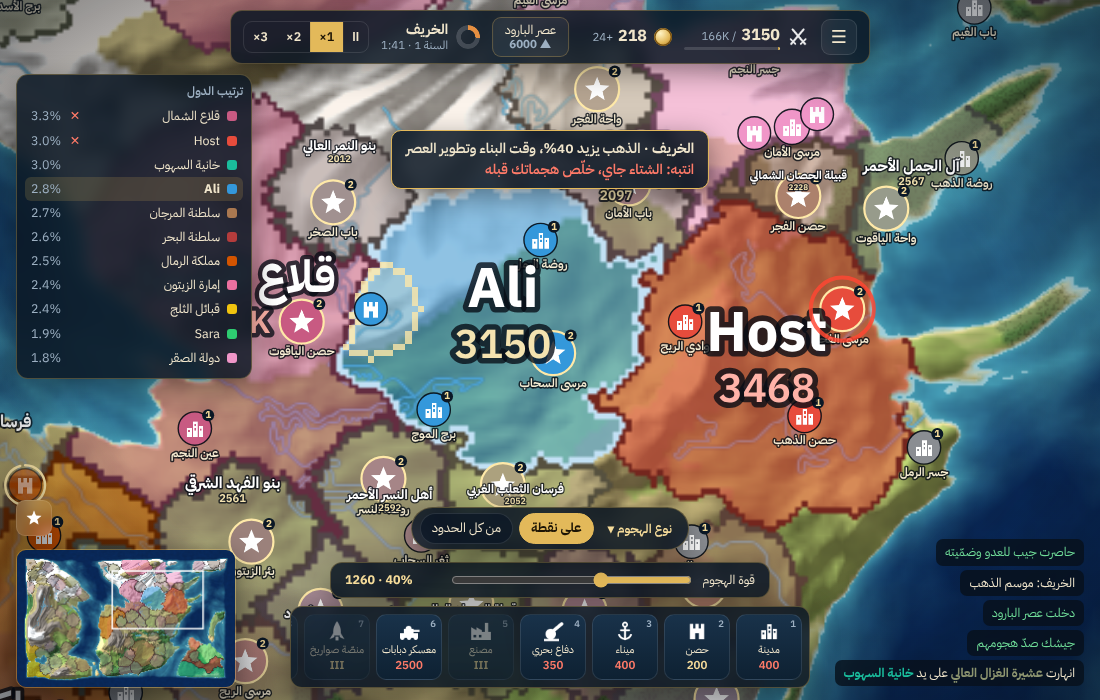
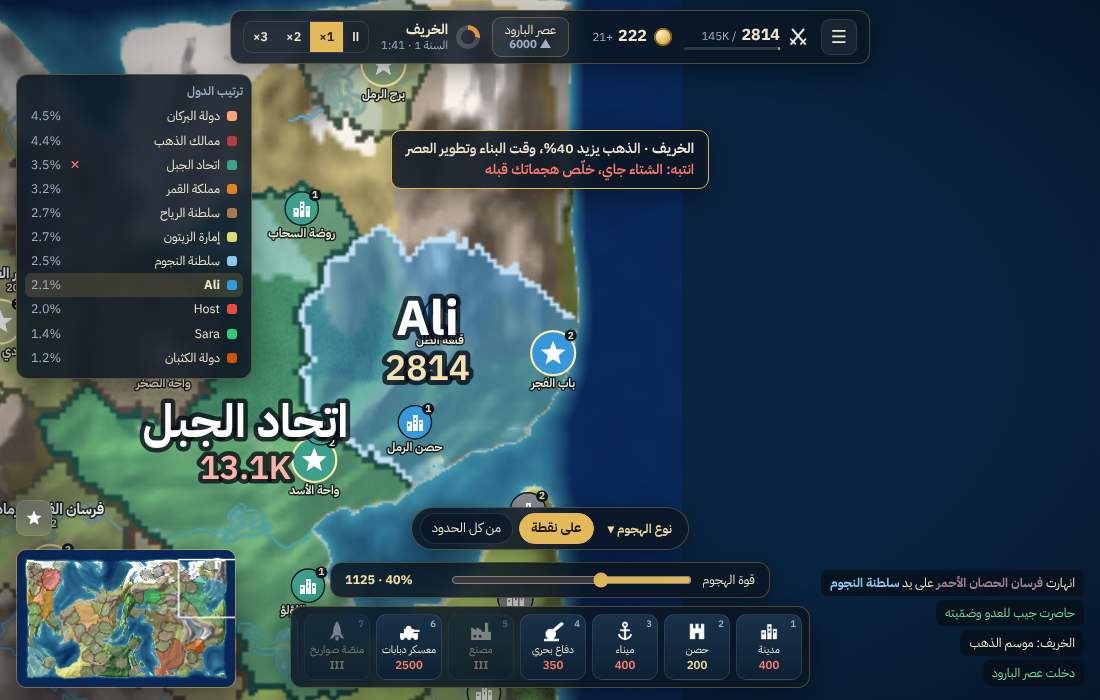
Tanks leave captured ground immediately
Claude-Session: https://claude.ai/code/session_01DE77Q6PVtjTWn3qCBTcsws

diff --git a/dist/sijal-mobile.html b/dist/sijal-mobile.html
@@ -447,7 +447,7 @@ h3{font-size:13px;color:var(--dim);font-weight:600;margin-bottom:6px}
 </div>
 <script>
 window.SIJAL_MODE='mobile';(function(){"use strict";
-const BUILD_ID='fb52ffa115';
+const BUILD_ID='2ee05ec791';
 // ── SIJAL · core: constants, utilities, shared data ──
 const TPS=10,SEASON_LEN=450;
 // terrain ids: 0 deep, 1 shallow, 2 plains, 3 forest, 4 desert, 5 hills, 6 mountain, 7 snow
@@ -1240,12 +1240,13 @@ function tickTanks(g){
     // nearest offensive of this realm
     let k=null,bd=1e18;if(F)for(const q of F){const fx=q.fx!=null?q.fx:q.ox,fy=q.fx!=null?q.fy:q.oy,d=(fx-T.x)**2+(fy-T.y)**2;if(d<bd){bd=d;k=q;}}
     if(k){const key=k.id;slot[key]=(slot[key]||0)+1;T.slot=slot[key]-1;}
-    if(now>=T.re||(k?T.k!==k.id:T.k)){
+    const lost=own[ti]!==T.a;
+    if(lost||now>=T.re||(k?T.k!==k.id:T.k)){
       T.re=now+(k?20:60+((g.rng()*40)|0));let tgt=-1;
       if(k){if(!k._fl||now-k._flT>=20){k._fl=frontLine(g,k);k._flT=now;}const L=k._fl;
         if(L.length){const n=live.filter(o=>o.a===T.a).length;tgt=L[Math.min(L.length-1,Math.floor((T.slot+.5)/Math.max(1,n)*L.length))];}}
       for(const R of k?[6,20]:[10,25,50]){if(tgt>=0)break;tgt=borderNear(g,T.a,Math.floor(T.x),Math.floor(T.y),R);}
-      T.k=k?k.id:0;let start=ti;if(own[start]!==T.a){const b=borderNear(g,T.a,Math.floor(T.x),Math.floor(T.y),4);if(b>=0){start=b;T.x=b%W+.5;T.y=((b/W)|0)+.5;}}
+      T.k=k?k.id:0;let start=ti;if(own[start]!==T.a){let b=-1;for(const R of[2,5,10,20]){if(b>=0)break;b=borderNear(g,T.a,Math.floor(T.x),Math.floor(T.y),R);}if(b<0){b=T.c.i;}start=b;T.x=b%W+.5;T.y=((b/W)|0)+.5;}
       T.path=tgt>=0&&own[start]===T.a?ownPath(g,T.a,start,tgt,g.N):null;T.pi=0;}
     // drive along the path; never onto land that is not ours
     const sp=T.k?.55:.14;let left=sp;

diff --git a/dist/sijal-pc.html b/dist/sijal-pc.html
@@ -447,7 +447,7 @@ h3{font-size:13px;color:var(--dim);font-weight:600;margin-bottom:6px}
 </div>
 <script>
 window.SIJAL_MODE='pc';(function(){"use strict";
-const BUILD_ID='fb52ffa115';
+const BUILD_ID='2ee05ec791';
 // ── SIJAL · core: constants, utilities, shared data ──
 const TPS=10,SEASON_LEN=450;
 // terrain ids: 0 deep, 1 shallow, 2 plains, 3 forest, 4 desert, 5 hills, 6 mountain, 7 snow
@@ -1240,12 +1240,13 @@ function tickTanks(g){
     // nearest offensive of this realm
     let k=null,bd=1e18;if(F)for(const q of F){const fx=q.fx!=null?q.fx:q.ox,fy=q.fx!=null?q.fy:q.oy,d=(fx-T.x)**2+(fy-T.y)**2;if(d<bd){bd=d;k=q;}}
     if(k){const key=k.id;slot[key]=(slot[key]||0)+1;T.slot=slot[key]-1;}
-    if(now>=T.re||(k?T.k!==k.id:T.k)){
+    const lost=own[ti]!==T.a;
+    if(lost||now>=T.re||(k?T.k!==k.id:T.k)){
       T.re=now+(k?20:60+((g.rng()*40)|0));let tgt=-1;
       if(k){if(!k._fl||now-k._flT>=20){k._fl=frontLine(g,k);k._flT=now;}const L=k._fl;
         if(L.length){const n=live.filter(o=>o.a===T.a).length;tgt=L[Math.min(L.length-1,Math.floor((T.slot+.5)/Math.max(1,n)*L.length))];}}
       for(const R of k?[6,20]:[10,25,50]){if(tgt>=0)break;tgt=borderNear(g,T.a,Math.floor(T.x),Math.floor(T.y),R);}
-      T.k=k?k.id:0;let start=ti;if(own[start]!==T.a){const b=borderNear(g,T.a,Math.floor(T.x),Math.floor(T.y),4);if(b>=0){start=b;T.x=b%W+.5;T.y=((b/W)|0)+.5;}}
+      T.k=k?k.id:0;let start=ti;if(own[start]!==T.a){let b=-1;for(const R of[2,5,10,20]){if(b>=0)break;b=borderNear(g,T.a,Math.floor(T.x),Math.floor(T.y),R);}if(b<0){b=T.c.i;}start=b;T.x=b%W+.5;T.y=((b/W)|0)+.5;}
       T.path=tgt>=0&&own[start]===T.a?ownPath(g,T.a,start,tgt,g.N):null;T.pi=0;}
     // drive along the path; never onto land that is not ours
     const sp=T.k?.55:.14;let left=sp;

diff --git a/dist/sijal-artifact.html b/dist/sijal-artifact.html
@@ -437,7 +437,7 @@ h3{font-size:13px;color:var(--dim);font-weight:600;margin-bottom:6px}
 </div>
 <script>
 (function(){"use strict";
-const BUILD_ID='fb52ffa115';
+const BUILD_ID='2ee05ec791';
 // ── SIJAL · core: constants, utilities, shared data ──
 const TPS=10,SEASON_LEN=450;
 // terrain ids: 0 deep, 1 shallow, 2 plains, 3 forest, 4 desert, 5 hills, 6 mountain, 7 snow
@@ -1230,12 +1230,13 @@ function tickTanks(g){
     // nearest offensive of this realm
     let k=null,bd=1e18;if(F)for(const q of F){const fx=q.fx!=null?q.fx:q.ox,fy=q.fx!=null?q.fy:q.oy,d=(fx-T.x)**2+(fy-T.y)**2;if(d<bd){bd=d;k=q;}}
     if(k){const key=k.id;slot[key]=(slot[key]||0)+1;T.slot=slot[key]-1;}
-    if(now>=T.re||(k?T.k!==k.id:T.k)){
+    const lost=own[ti]!==T.a;
+    if(lost||now>=T.re||(k?T.k!==k.id:T.k)){
       T.re=now+(k?20:60+((g.rng()*40)|0));let tgt=-1;
       if(k){if(!k._fl||now-k._flT>=20){k._fl=frontLine(g,k);k._flT=now;}const L=k._fl;
         if(L.length){const n=live.filter(o=>o.a===T.a).length;tgt=L[Math.min(L.length-1,Math.floor((T.slot+.5)/Math.max(1,n)*L.length))];}}
       for(const R of k?[6,20]:[10,25,50]){if(tgt>=0)break;tgt=borderNear(g,T.a,Math.floor(T.x),Math.floor(T.y),R);}
-      T.k=k?k.id:0;let start=ti;if(own[start]!==T.a){const b=borderNear(g,T.a,Math.floor(T.x),Math.floor(T.y),4);if(b>=0){start=b;T.x=b%W+.5;T.y=((b/W)|0)+.5;}}
+      T.k=k?k.id:0;let start=ti;if(own[start]!==T.a){let b=-1;for(const R of[2,5,10,20]){if(b>=0)break;b=borderNear(g,T.a,Math.floor(T.x),Math.floor(T.y),R);}if(b<0){b=T.c.i;}start=b;T.x=b%W+.5;T.y=((b/W)|0)+.5;}
       T.path=tgt>=0&&own[start]===T.a?ownPath(g,T.a,start,tgt,g.N):null;T.pi=0;}
     // drive along the path; never onto land that is not ours
     const sp=T.k?.55:.14;let left=sp;

diff --git a/dist/sijal.html b/dist/sijal.html
@@ -447,7 +447,7 @@ h3{font-size:13px;color:var(--dim);font-weight:600;margin-bottom:6px}
 </div>
 <script>
 (function(){"use strict";
-const BUILD_ID='fb52ffa115';
+const BUILD_ID='2ee05ec791';
 // ── SIJAL · core: constants, utilities, shared data ──
 const TPS=10,SEASON_LEN=450;
 // terrain ids: 0 deep, 1 shallow, 2 plains, 3 forest, 4 desert, 5 hills, 6 mountain, 7 snow
@@ -1240,12 +1240,13 @@ function tickTanks(g){
     // nearest offensive of this realm
     let k=null,bd=1e18;if(F)for(const q of F){const fx=q.fx!=null?q.fx:q.ox,fy=q.fx!=null?q.fy:q.oy,d=(fx-T.x)**2+(fy-T.y)**2;if(d<bd){bd=d;k=q;}}
     if(k){const key=k.id;slot[key]=(slot[key]||0)+1;T.slot=slot[key]-1;}
-    if(now>=T.re||(k?T.k!==k.id:T.k)){
+    const lost=own[ti]!==T.a;
+    if(lost||now>=T.re||(k?T.k!==k.id:T.k)){
       T.re=now+(k?20:60+((g.rng()*40)|0));let tgt=-1;
       if(k){if(!k._fl||now-k._flT>=20){k._fl=frontLine(g,k);k._flT=now;}const L=k._fl;
         if(L.length){const n=live.filter(o=>o.a===T.a).length;tgt=L[Math.min(L.length-1,Math.floor((T.slot+.5)/Math.max(1,n)*L.length))];}}
       for(const R of k?[6,20]:[10,25,50]){if(tgt>=0)break;tgt=borderNear(g,T.a,Math.floor(T.x),Math.floor(T.y),R);}
-      T.k=k?k.id:0;let start=ti;if(own[start]!==T.a){const b=borderNear(g,T.a,Math.floor(T.x),Math.floor(T.y),4);if(b>=0){start=b;T.x=b%W+.5;T.y=((b/W)|0)+.5;}}
+      T.k=k?k.id:0;let start=ti;if(own[start]!==T.a){let b=-1;for(const R of[2,5,10,20]){if(b>=0)break;b=borderNear(g,T.a,Math.floor(T.x),Math.floor(T.y),R);}if(b<0){b=T.c.i;}start=b;T.x=b%W+.5;T.y=((b/W)|0)+.5;}
       T.path=tgt>=0&&own[start]===T.a?ownPath(g,T.a,start,tgt,g.N):null;T.pi=0;}
     // drive along the path; never onto land that is not ours
     const sp=T.k?.55:.14;let left=sp;

diff --git a/dist/site/index.html b/dist/site/index.html
@@ -460,7 +460,7 @@ h3{font-size:13px;color:var(--dim);font-weight:600;margin-bottom:6px}
 </div>
 <script>
 (function(){"use strict";
-const BUILD_ID='fb52ffa115';
+const BUILD_ID='2ee05ec791';
 // ── SIJAL · core: constants, utilities, shared data ──
 const TPS=10,SEASON_LEN=450;
 // terrain ids: 0 deep, 1 shallow, 2 plains, 3 forest, 4 desert, 5 hills, 6 mountain, 7 snow
@@ -1253,12 +1253,13 @@ function tickTanks(g){
     // nearest offensive of this realm
     let k=null,bd=1e18;if(F)for(const q of F){const fx=q.fx!=null?q.fx:q.ox,fy=q.fx!=null?q.fy:q.oy,d=(fx-T.x)**2+(fy-T.y)**2;if(d<bd){bd=d;k=q;}}
     if(k){const key=k.id;slot[key]=(slot[key]||0)+1;T.slot=slot[key]-1;}
-    if(now>=T.re||(k?T.k!==k.id:T.k)){
+    const lost=own[ti]!==T.a;
+    if(lost||now>=T.re||(k?T.k!==k.id:T.k)){
       T.re=now+(k?20:60+((g.rng()*40)|0));let tgt=-1;
       if(k){if(!k._fl||now-k._flT>=20){k._fl=frontLine(g,k);k._flT=now;}const L=k._fl;
         if(L.length){const n=live.filter(o=>o.a===T.a).length;tgt=L[Math.min(L.length-1,Math.floor((T.slot+.5)/Math.max(1,n)*L.length))];}}
       for(const R of k?[6,20]:[10,25,50]){if(tgt>=0)break;tgt=borderNear(g,T.a,Math.floor(T.x),Math.floor(T.y),R);}
-      T.k=k?k.id:0;let start=ti;if(own[start]!==T.a){const b=borderNear(g,T.a,Math.floor(T.x),Math.floor(T.y),4);if(b>=0){start=b;T.x=b%W+.5;T.y=((b/W)|0)+.5;}}
+      T.k=k?k.id:0;let start=ti;if(own[start]!==T.a){let b=-1;for(const R of[2,5,10,20]){if(b>=0)break;b=borderNear(g,T.a,Math.floor(T.x),Math.floor(T.y),R);}if(b<0){b=T.c.i;}start=b;T.x=b%W+.5;T.y=((b/W)|0)+.5;}
       T.path=tgt>=0&&own[start]===T.a?ownPath(g,T.a,start,tgt,g.N):null;T.pi=0;}
     // drive along the path; never onto land that is not ours
     const sp=T.k?.55:.14;let left=sp;

diff --git a/src/game.js b/src/game.js
@@ -638,12 +638,13 @@ function tickTanks(g){
     // nearest offensive of this realm
     let k=null,bd=1e18;if(F)for(const q of F){const fx=q.fx!=null?q.fx:q.ox,fy=q.fx!=null?q.fy:q.oy,d=(fx-T.x)**2+(fy-T.y)**2;if(d<bd){bd=d;k=q;}}
     if(k){const key=k.id;slot[key]=(slot[key]||0)+1;T.slot=slot[key]-1;}
-    if(now>=T.re||(k?T.k!==k.id:T.k)){
+    const lost=own[ti]!==T.a;
+    if(lost||now>=T.re||(k?T.k!==k.id:T.k)){
       T.re=now+(k?20:60+((g.rng()*40)|0));let tgt=-1;
       if(k){if(!k._fl||now-k._flT>=20){k._fl=frontLine(g,k);k._flT=now;}const L=k._fl;
         if(L.length){const n=live.filter(o=>o.a===T.a).length;tgt=L[Math.min(L.length-1,Math.floor((T.slot+.5)/Math.max(1,n)*L.length))];}}
       for(const R of k?[6,20]:[10,25,50]){if(tgt>=0)break;tgt=borderNear(g,T.a,Math.floor(T.x),Math.floor(T.y),R);}
-      T.k=k?k.id:0;let start=ti;if(own[start]!==T.a){const b=borderNear(g,T.a,Math.floor(T.x),Math.floor(T.y),4);if(b>=0){start=b;T.x=b%W+.5;T.y=((b/W)|0)+.5;}}
+      T.k=k?k.id:0;let start=ti;if(own[start]!==T.a){let b=-1;for(const R of[2,5,10,20]){if(b>=0)break;b=borderNear(g,T.a,Math.floor(T.x),Math.floor(T.y),R);}if(b<0){b=T.c.i;}start=b;T.x=b%W+.5;T.y=((b/W)|0)+.5;}
       T.path=tgt>=0&&own[start]===T.a?ownPath(g,T.a,start,tgt,g.N):null;T.pi=0;}
     // drive along the path; never onto land that is not ours
     const sp=T.k?.55:.14;let left=sp;
